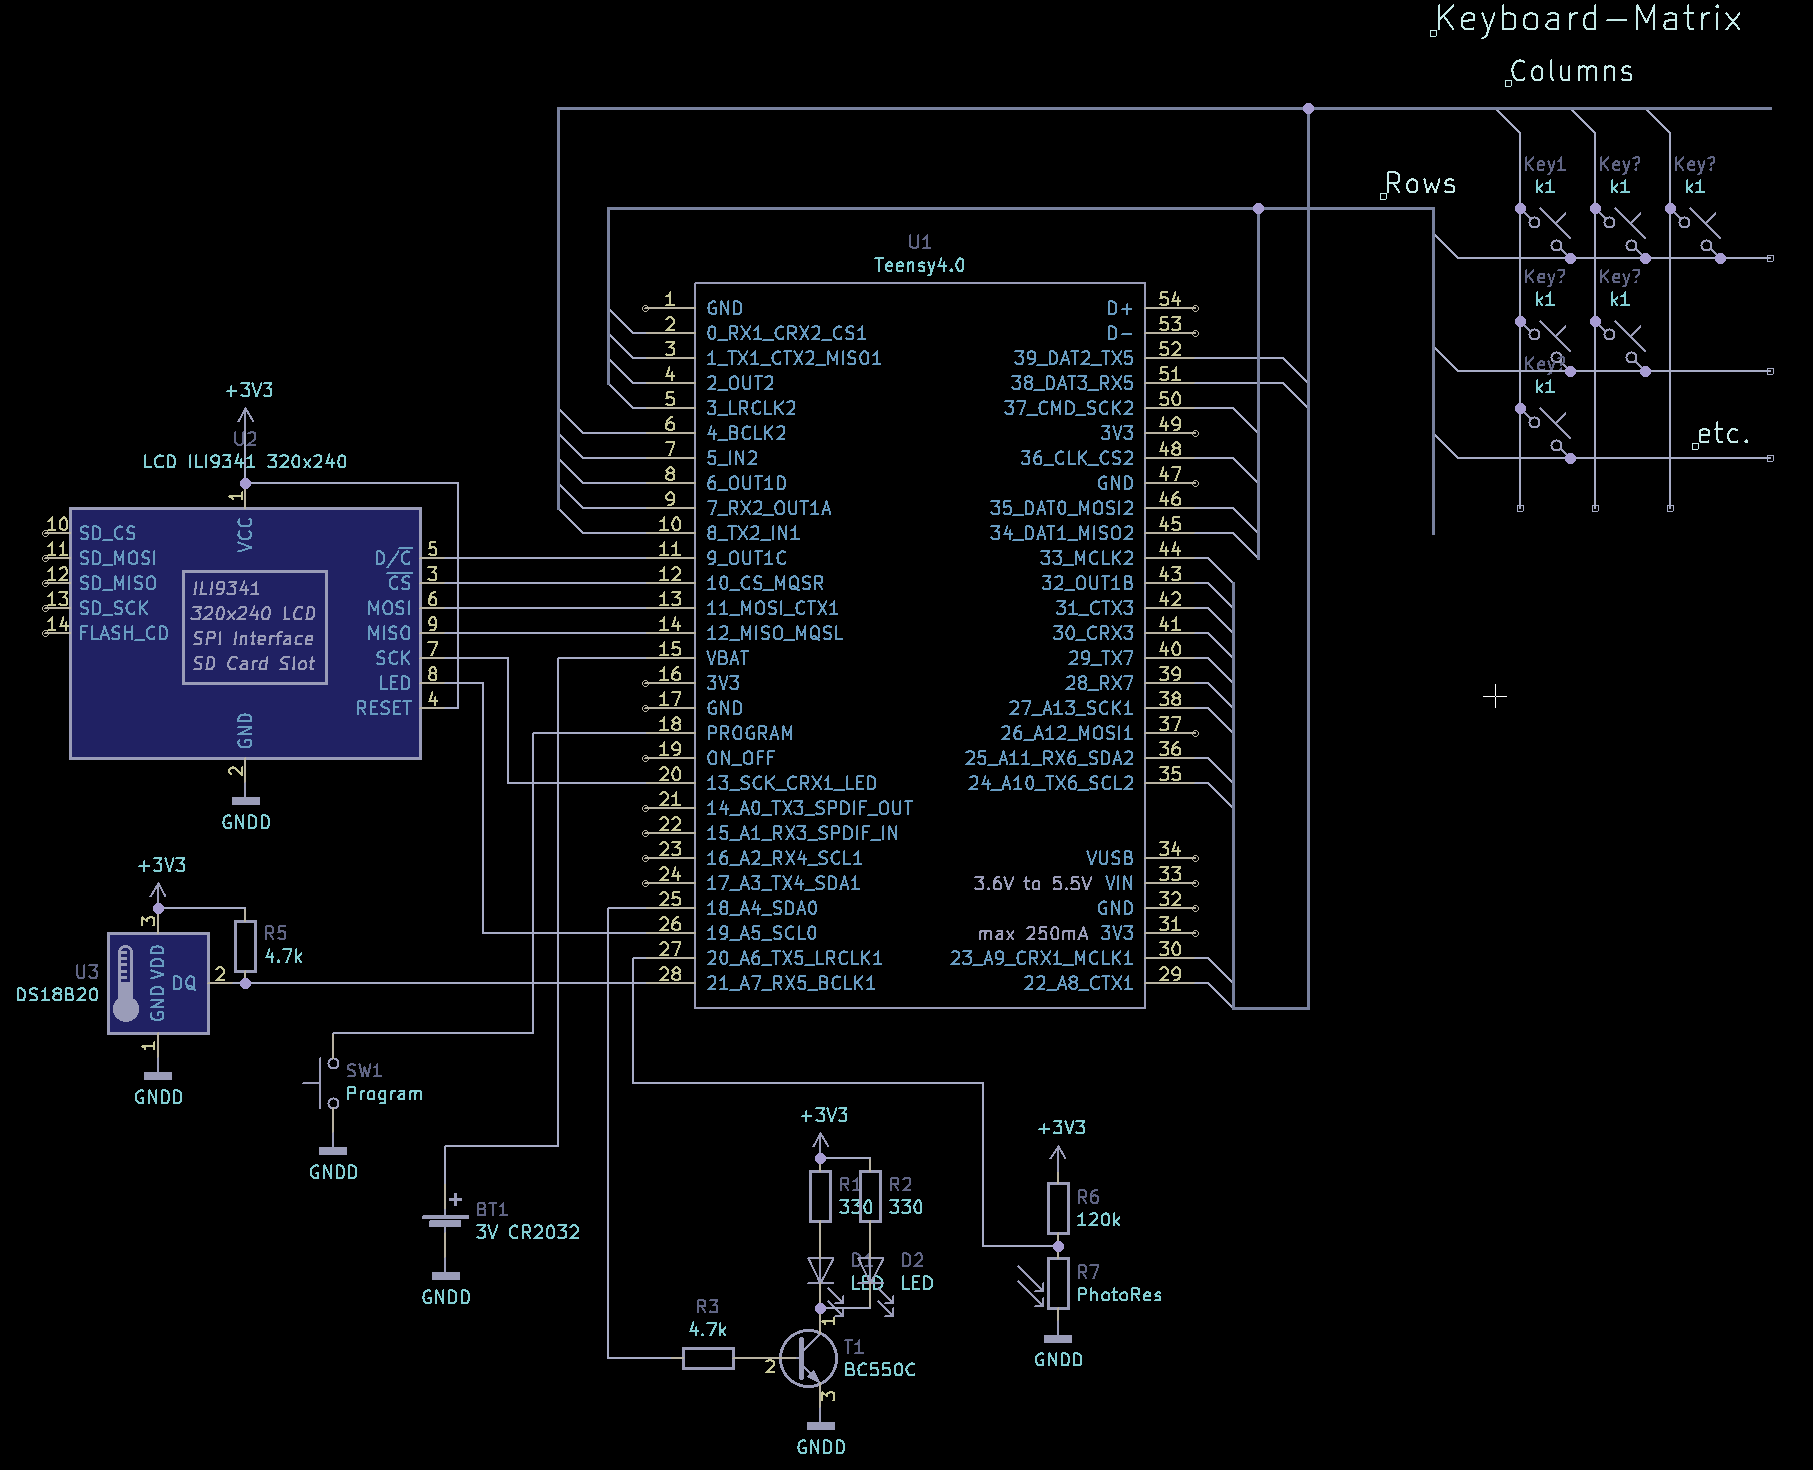
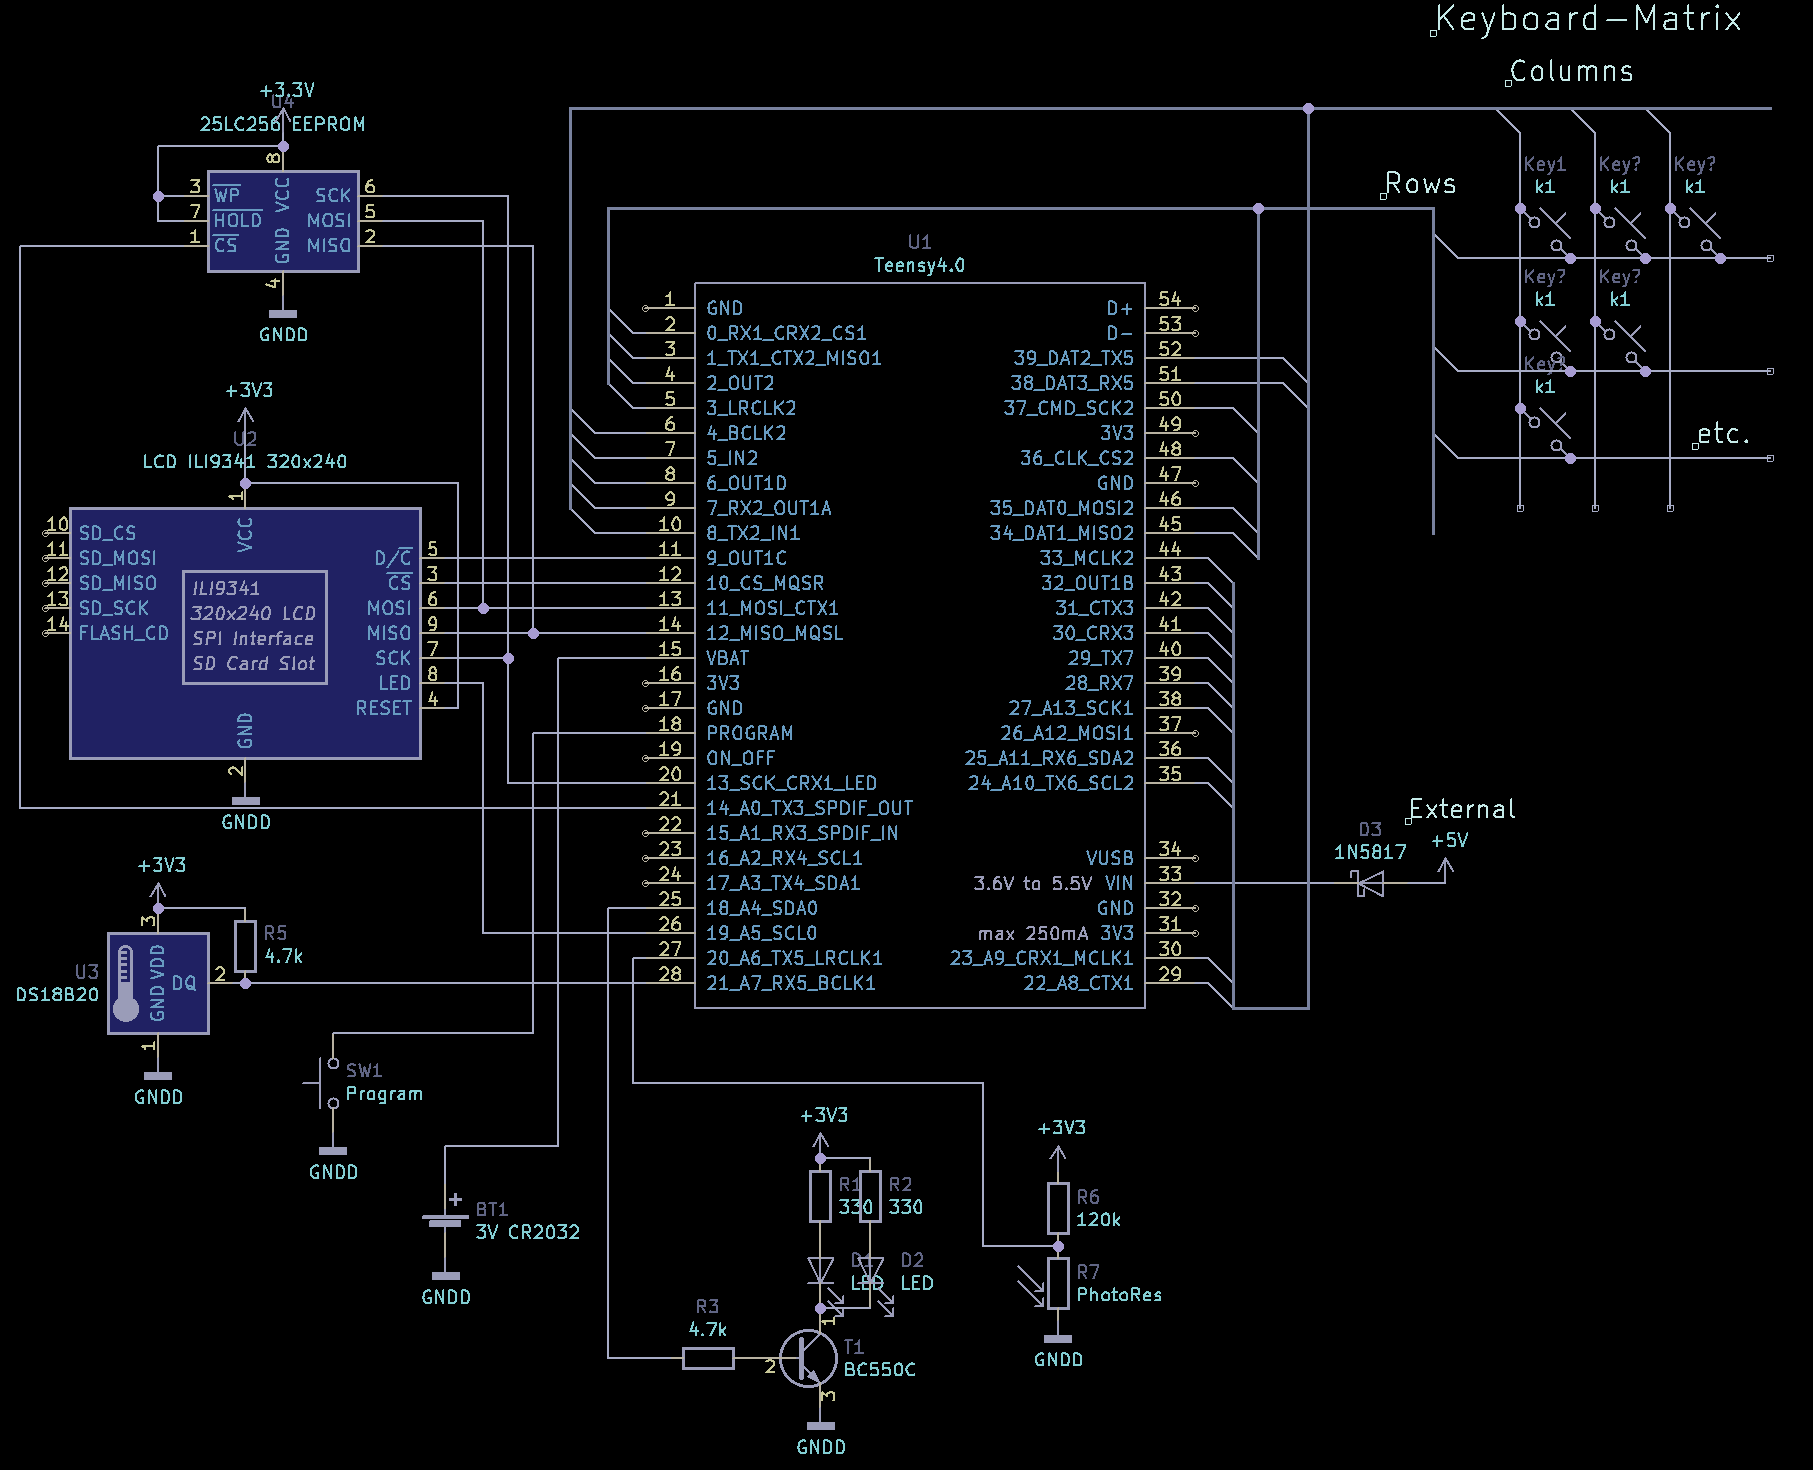
readme and schematic update (eeprom, external power)

Changed region(s): [[0.0927, 0.0612, 0.2162, 0.2143], [0.278, 0.1531, 0.3398, 0.3673], [0.7413, 0.551, 0.8031, 0.6122]]

diff --git a/README.md b/README.md
@@ -38,7 +38,9 @@ More description of project on [My Website](https://cryham.tuxfamily.org/portfol
 * **Temperature** reading from DS18B20 sensor (optional, 1pin).
 * LED light (optional, 1pin).
 * **Statistics**: uptime, key presses per minute (and average), keyboard active time and inactive times. Info page for used keys, layers, sequences etc.
-* 2 **Graphs**: key presses per minute and temperature. Auto ranged with adjustable history length.
+* **Graphs**: key presses per minute and temperature.
+  * Auto ranged with adjustable history length.
+  * 3 Sizes: short, normal 2h, and daily 12h, configurable.
 
 #### For fun:
 * Many **Demos** with presets. E.g.: Plasma, Polyhedrons 3D, Wave, Fire, waving 2D CK logo.
@@ -72,10 +74,18 @@ The keyboard is made of:
 Red PCB with SD card slot, no touch. Terribly low horizontal viewing angle.  
 Display uses 5 SPI pins: 9 DC, 10 CS, no RST, rest default.
 * Brightness is changed using PWM on pin 19 to LCD LED.
-* Optionally a DS18B20 1-wire temperature sensor with data pin through 4.7k resistor to 3.3V.
+
+Optionally:
+* External Serial EEPROM 25LC256 (64kB).
+  * If not present internal will be used (1080 bytes, enough for basic use).
+* DS18B20 1-wire temperature sensor with data pin through 4.7k resistor to 3.3V.
 * LED lamp, brightness with PWM (optional 1 pin).
+* Photoresistor just to show light intensity value
+* External power supply +5V.
+  * Allows daily graphs or changing PC witout loosing statistics etc.
 
 For more info refer to the [schematic.png](https://raw.githubusercontent.com/cryham/kc4/master/schematic.png) or subdir with Kicad files.
+
 
 ### Configuring
 
@@ -84,15 +94,16 @@ Information useful when starting to use K.C.4 with your keyboard matrix.
 Setup is done in files:
 * `def.h`
   * Define code features to use like: old demos, game. Also optional pins for LED and Temp'C.
-  * Choose keyboard type by define (CK1,CK8,CK9 or create your own).
+  * Choose keyboard type by define (CKtest,CK1,CK8,CK9 or create your own).
 * `matrix.h` has defined Teensy pins for keyboard Matrix_cols and Matrix_rows.
-  * CK1 is easiest for testing (8 cols x 6 rows). CK9 uses 18 cols and 8 rows.
+  * CKtest is easiest for testing (2 cols x 4 rows). CK9 is official and uses 18 cols and 8 rows.
   * Columns are as outputs (all High-Z with one set to low "0"), while rows are inputs (all high "1").
 * `kbd_layout.cpp` has physical keys layout (drawn on display).
 
 Other key constants are in `kc_params.h` like (max) counts of rows, cols, layers, sequences (also updated in `keys_usb.h`).
 
-When defining a new keyboard, it is useful to force starting in main.cpp on GUI Pressed tab, it shows scan codes.
+When defining a new keyboard see `#if 0` in `main.cpp`, can force starting on test pages to e.g. show matrix or scan codes.
+
 
 ### Building
 
@@ -114,7 +125,7 @@ On successful build the last lines are e.g.
   CC kc/matrix.c
  Linking 
    SRAM: 69%  366560 / 524288 B
-  Flash: 14%  295376 / 2031616 B
+  Flash: 15%  311032 / 2031616 B
 Upload
 ```
 showing used percentages of memories.
